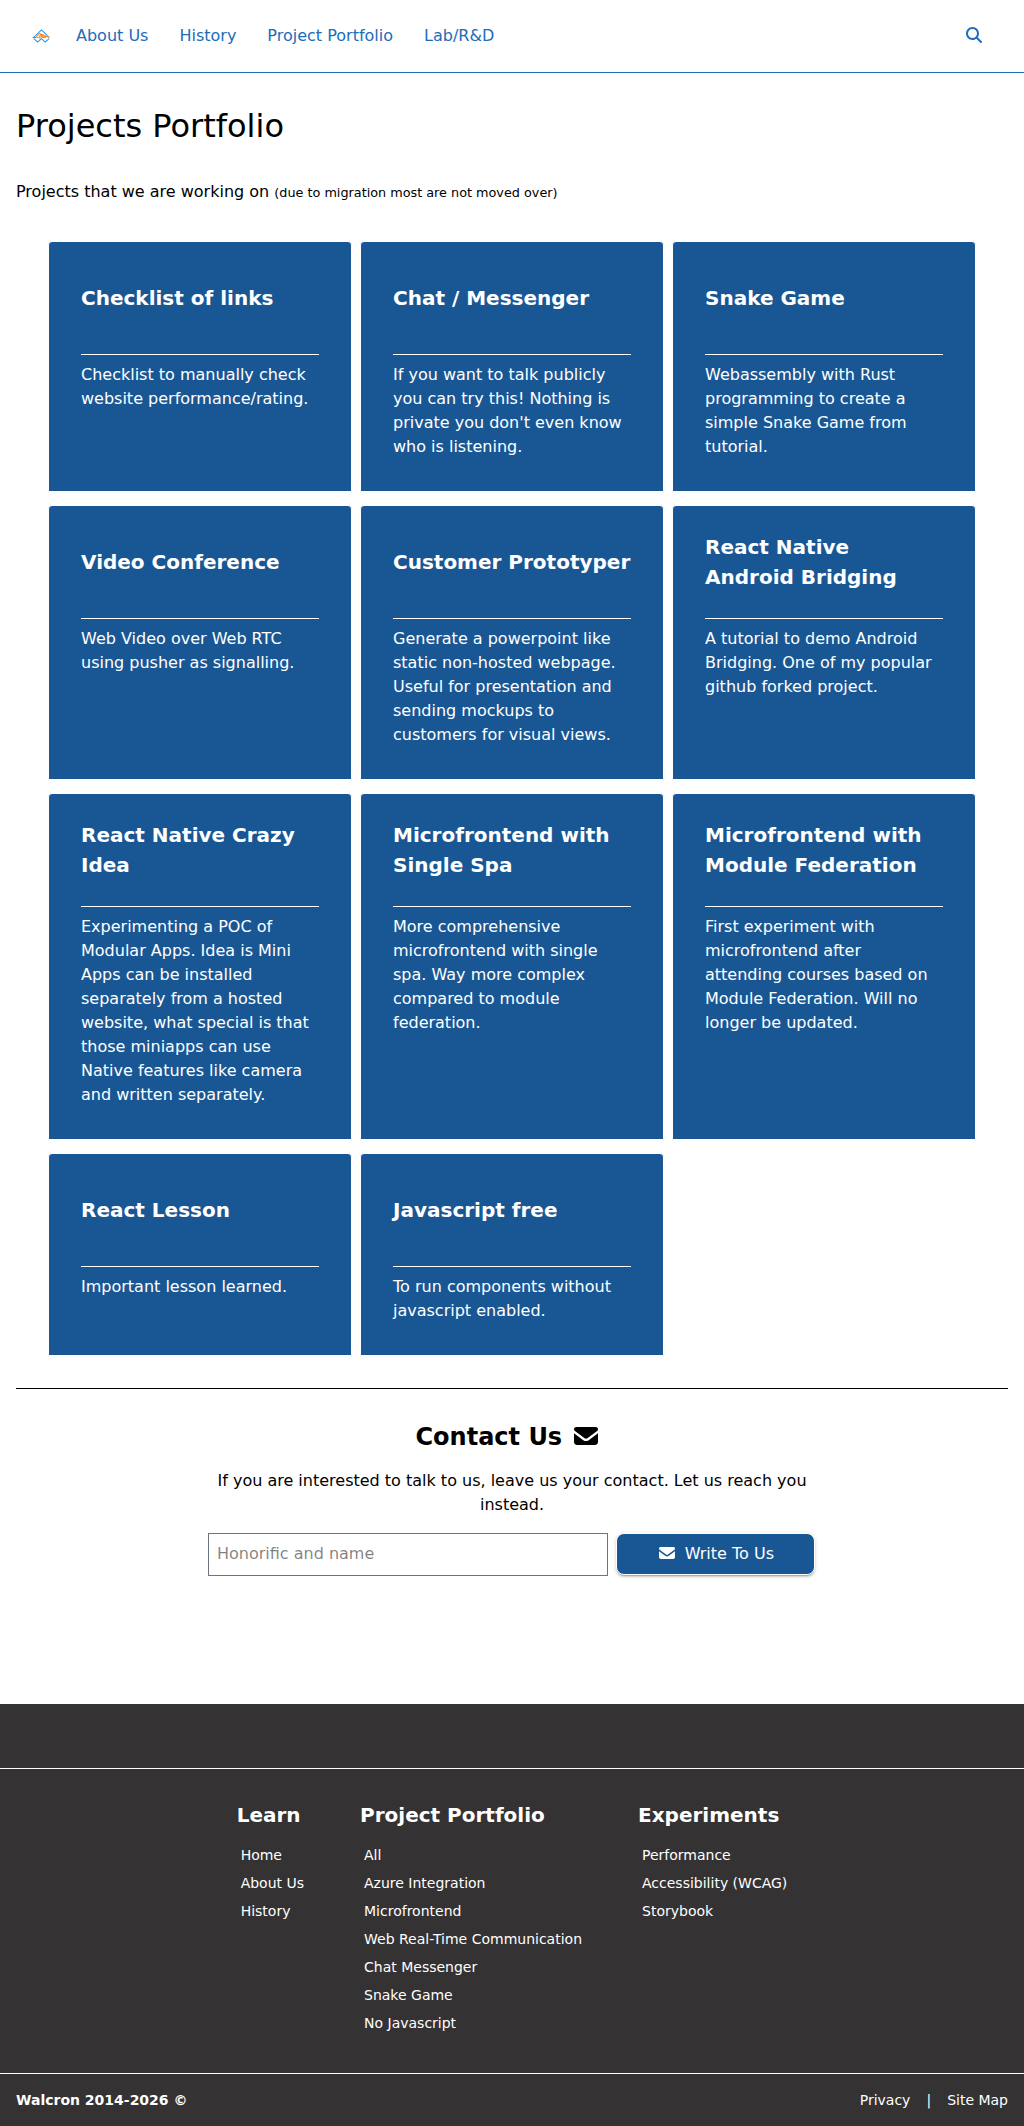
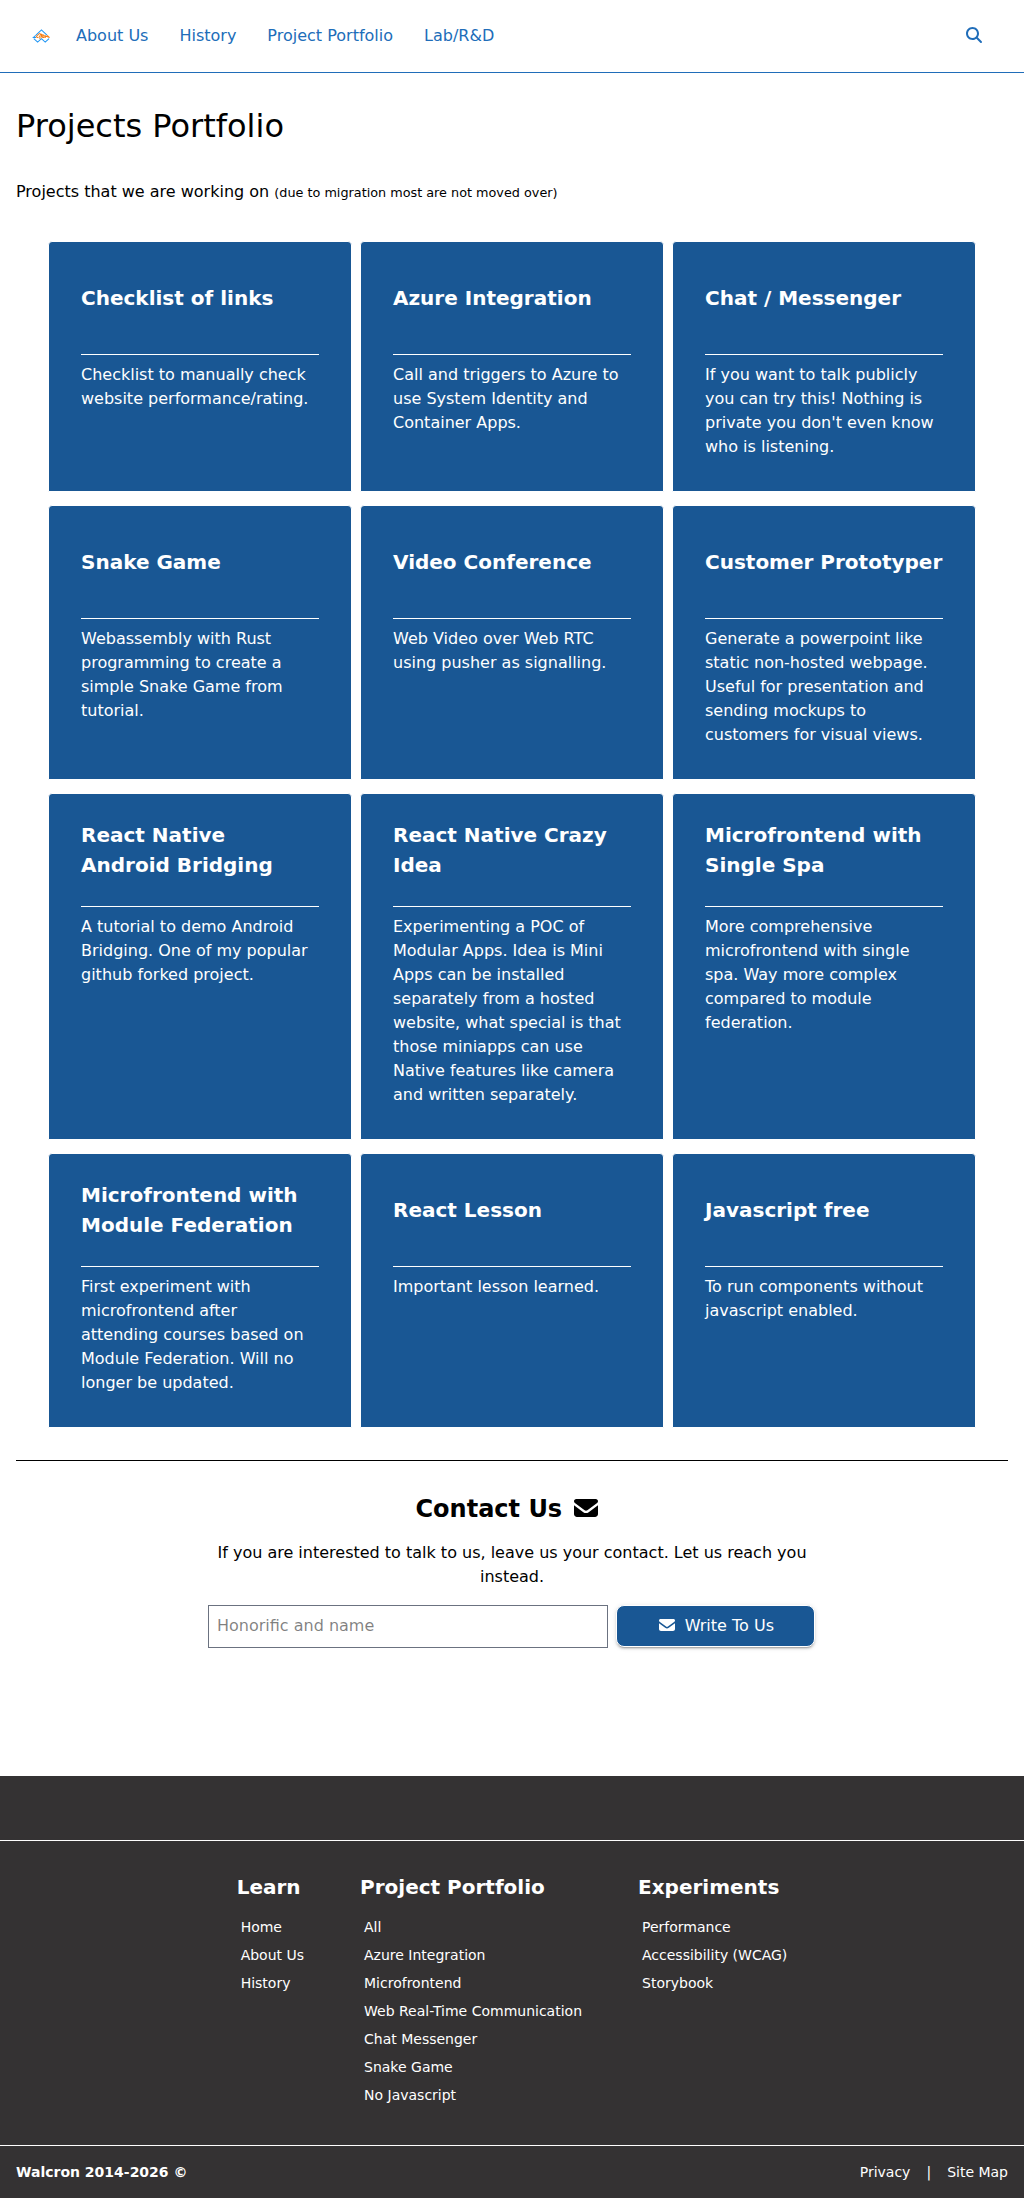
Merge pull request #896 from yoonghan/az-int
Extend wait time and animate loading menu

Pull request: Extend wait time and animate loading menu

diff --git a/src/components/TextLoader/TextLoader.module.css b/src/components/TextLoader/TextLoader.module.css
@@ -1,0 +1,28 @@
+.dots span {
+    opacity: 0;
+    animation: fade 1.5s infinite;
+}
+
+.dots span:nth-child(1) {
+    animation-delay: 0s;
+}
+
+.dots span:nth-child(2) {
+    animation-delay: 0.2s;
+}
+
+.dots span:nth-child(3) {
+    animation-delay: 0.4s;
+}
+
+@keyframes fade {
+
+    0%,
+    100% {
+        opacity: 0;
+    }
+
+    50% {
+        opacity: 1;
+    }
+}

diff --git a/src/__smoke__/azure.github.spec.ts b/src/__smoke__/azure.github.spec.ts
@@ -1,0 +1,16 @@
+import { test, expect } from "@playwright/test"
+import { azureUrl } from "@/config/site"
+
+test.describe("azure setup", () => {
+    test("azure is setup correctly with health status up", async ({ page }, testInfo) => {
+        testInfo.setTimeout(50_000) //startup needs bout 30seconds
+        const response = await fetch(`${azureUrl}/healthz`, {
+            method: "GET",
+        })
+        expect(response.status).toBe(200)
+
+        await page.goto("/projects/azure")
+        const todoListHeading = page.getByRole("heading", { name: "Todo List" })
+        await expect(todoListHeading).toBeVisible()
+    })
+})

diff --git a/src/app/projects/azure/page.tsx b/src/app/projects/azure/page.tsx
@@ -2,6 +2,8 @@ import { memo, Suspense } from "react"
 import wrapPromise from "@/components/utils/common/wrapPromise"
 import { site } from "@/config/site"
 import { Metadata } from "next"
+import TextLoader from "../../../components/TextLoader/TextLoader"
+import { azureUrl } from "@/config/site"
 
 export const metadata: Metadata = {
     title: "Azure Integration",
@@ -11,8 +13,10 @@ export const metadata: Metadata = {
     },
 }
 
+export const maxDuration = 60
+
 const callAzureWalcron = async () => {
-    const response: string = await fetch("https://azure.walcron.com/healthz", { cache: "no-store" }).then((res) => {
+    const response: string = await fetch(`${azureUrl}/healthz`, { cache: "no-store" }).then((res) => {
         if (!res.ok) throw new Error("Unable to fetch");
         return res.text();
     })
@@ -34,9 +38,8 @@ const Result = ({ promise }: { promise: { read: () => any } }) => {
 
     return (
         <div>
-            {typeof readSuccessResponse === "string" ? readSuccessResponse : null}
             {readSuccessResponse === "ready" ? (
-                <iframe src="https://azure.walcron.com" allowFullScreen className="w-full h-screen" data-testid="azure-integration" />
+                <iframe src={azureUrl} allowFullScreen className="w-full h-screen" data-testid="azure-integration" />
             ) : (
                 <div>Unable to load screen</div>
             )}
@@ -44,10 +47,11 @@ const Result = ({ promise }: { promise: { read: () => any } }) => {
     )
 }
 
+
 const SuspenseLoader = ({ promise }: { promise: { read: () => any } }) => {
     return (
         <Suspense
-            fallback={<div style={{ color: "green" }}>Warming Up Container</div>}
+            fallback={<TextLoader text="Warming Up Container" />}
         >
             <Result promise={promise} />
         </Suspense>
@@ -57,10 +61,10 @@ const SuspenseLoader = ({ promise }: { promise: { read: () => any } }) => {
 const AzureIntegration = () => {
     const successResponse = wrapPromise(callAzureWalcron())
     return (
-        <>
+        <div className="walcron-container">
             <h1>Azure Integration for TODO List</h1>
             <SuspenseLoader promise={successResponse} />
-        </>
+        </div>
     )
 }
 

diff --git a/src/components/TextLoader/TextLoader.test.tsx b/src/components/TextLoader/TextLoader.test.tsx
@@ -1,0 +1,15 @@
+import { render, screen } from "@testing-library/react"
+import TextLoader from "./TextLoader"
+
+describe("TextLoader", () => {
+
+    const renderComponent = () => {
+        render(<TextLoader text="Warming Up Container" />)
+    }
+
+    it("should render correctly", () => {
+        renderComponent()
+        expect(screen.getByText("Warming Up Container")).toBeInTheDocument()
+        expect(screen.getAllByText(".")).toHaveLength(3)
+    })
+})

diff --git a/src/components/TextLoader/TextLoader.tsx b/src/components/TextLoader/TextLoader.tsx
@@ -1,0 +1,14 @@
+"use client"
+import styles from "./TextLoader.module.css"
+
+const TextLoader = ({ text }: { text: string }) => {
+    return (
+        <div>
+            <div className={`text-center my-16 italic text-green-700 q${styles.dots}`}>
+                {text}<span>.</span><span>.</span><span>.</span>
+            </div>
+        </div>
+    )
+}
+
+export default TextLoader

diff --git a/src/app/projects/azure/page.test.tsx b/src/app/projects/azure/page.test.tsx
@@ -1,6 +1,7 @@
 import "@/__tests__/mocks/fetchMock"
 import { render, screen, act } from "@testing-library/react"
 import { fetchMock } from "@/__tests__/mocks/fetchMock"
+import { maxDuration } from "./page"
 
 describe("Azure Integration", () => {
     beforeEach(() => {
@@ -20,13 +21,14 @@ describe("Azure Integration", () => {
         })
 
         await renderComponent()
-        
+
         // Assert that we bypassed Next.js cache
         expect(fetchMock).toHaveBeenCalledWith("https://azure.walcron.com/healthz", { cache: "no-store" })
 
         expect(screen.getByRole("heading", { name: "Azure Integration for TODO List" })).toBeInTheDocument()
         expect(screen.getByText("Warming Up Container")).toBeInTheDocument()
         expect(await screen.findByTestId("azure-integration")).toBeInTheDocument()
+        expect(screen.getByTestId("azure-integration")).toHaveAttribute("src", "https://azure.walcron.com")
         expect(screen.queryByText("Warming Up Container")).not.toBeInTheDocument()
     })
 
@@ -40,5 +42,9 @@ describe("Azure Integration", () => {
         expect(screen.getByRole("heading", { name: "Azure Integration for TODO List" })).toBeInTheDocument()
         expect(screen.getByText("Warming Up Container")).toBeInTheDocument()
         expect(await screen.findByText("Unable to load screen")).toBeInTheDocument()
+    })
+
+    it("should timeout only after 60 minutes for Azure Container to warm up", () => {
+        expect(maxDuration).toBe(60)
     })
 })

diff --git a/src/app/projects/config.ts b/src/app/projects/config.ts
@@ -7,6 +7,13 @@ export const cards = [
     target: "_self",
   },
   {
+    id: "azure",
+    title: "Azure Integration",
+    description: "Call and triggers to Azure to use System Identity and Container Apps.",
+    href: "/projects/azure",
+    target: "_self"
+  },
+  {
     id: "chat",
     title: "Chat / Messenger",
     description:

diff --git a/src/components/Loader/Loader.jest.test.tsx b/src/components/Loader/Loader.jest.test.tsx
@@ -1,14 +1,14 @@
 import { render, screen, waitFor } from "@testing-library/react"
-import Loader from "."
+import TextLoader from "."
 
 describe("Loader", () => {
   it("should have a test id", async () => {
-    render(<Loader />)
+    render(<TextLoader />)
     expect(screen.getByTestId("walcron_loader")).toBeInTheDocument()
   })
 
   it("should change opacity and diameter overtime", async () => {
-    render(<Loader />)
+    render(<TextLoader />)
     const loader = screen.getByTestId("walcron_loader")
     expect(loader).toHaveStyle({ opacity: 0, width: 0 })
     await waitFor(

diff --git a/src/config/site.jest.test.ts b/src/config/site.jest.test.ts
@@ -1,4 +1,5 @@
 import { setEnv } from "@/__tests__/mocks/setEnv"
+import { azureUrl } from "./site"
 
 describe("root-url", () => {
   it("should be default with local website", async () => {
@@ -65,5 +66,9 @@ describe("root-url", () => {
     expect(site.cronApiUrl).toStrictEqual(
       "https://www.walcron.com/api/cron?action=today",
     )
+  })
+
+  it("should be an azure correct url", () => {
+    expect(azureUrl).toBe("https://azure.walcron.com")
   })
 })

diff --git a/src/config/site.ts b/src/config/site.ts
@@ -1,4 +1,5 @@
 const defaultUrl = "https://www.walcron.com"
+const azureUrl = "https://azure.walcron.com"
 
 function getUrl() {
   return process.env.NEXT_PUBLIC_SITE_URL || defaultUrl
@@ -36,4 +37,4 @@ const site = {
   defaultUrl,
 }
 
-export { site, getUrl, getApiUrl, getGA4Id }
+export { site, getUrl, getApiUrl, getGA4Id, azureUrl }

diff --git a/src/components/Loader/index.tsx b/src/components/Loader/index.tsx
@@ -37,3 +37,4 @@ const Loader = () => {
 }
 
 export default Loader
+